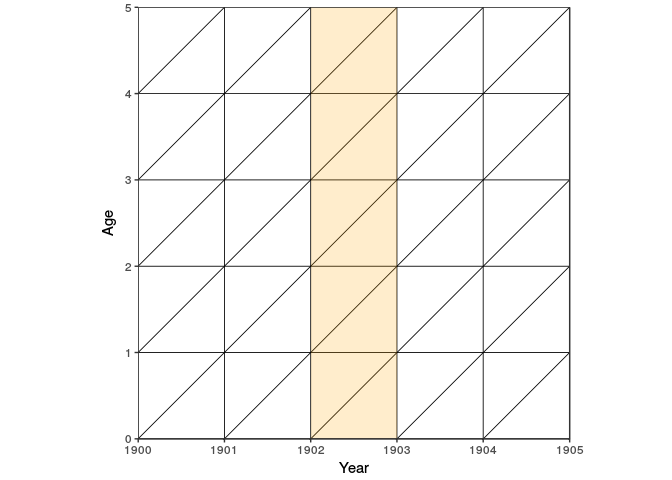
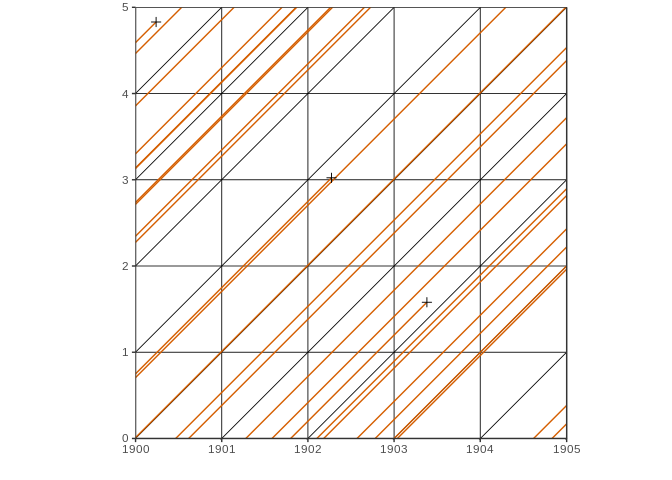
minor changes along with update of README.Rmd

Changed region(s): [[0.1562, 0.0, 0.875, 0.9688], [0.5, 0.9688, 0.5625, 1.0], [0.25, 0.8125, 0.2812, 0.8438]]

diff --git a/README.md b/README.md
@@ -89,52 +89,73 @@ lexis_cohort(lg = lexis, cohort = 1898)
 
 ![](README_files/figure-markdown_github/unnamed-chunk-7-1.png)
 
-The similar `lexis_survey()` can be used to sketch the progress of a survey or the like.
+The similar `lexis_polygon()` can be used to highlight arbitrary regions of the Lexis grid:
 
 ``` r
-#mylexis <- lexis.survey(lg = mylexis, from_date = "1901-06-01", to_date = "1902-12-31", from_age = 1, to_age = 3)
-#mylexis
+lexis <- lexis_grid(year_start = 1900, year_end = 1905, age_start = 0, age_end = 5)
+
+polygons <- data.frame(group = c(1, 1, 1, 2, 2, 2),
+                       x = c("1901-01-01", "1902-01-01", "1902-01-01", "1903-01-01", "1904-01-01", "1904-01-01"),
+                       y = c(1, 1, 2, 1, 1, 2))
+
+lexis_polygon(lg = lexis, x = polygons$x, y = polygons$y, group = polygons$group)
 ```
+
+![](README_files/figure-markdown_github/unnamed-chunk-8-1.png)
 
 ##### Add life lines to the Lexis Diagram
 
-A life line is a simple tool to represent an individual's life in a Lexis Diagram. The life line is a straight line and starts with the individual's birth at the respective point on the horizontal axis. The line ends with an individual's death (if observed).
+A life line is a simple tool to represent an individual's life in a Lexis Diagram.
 
-To draw an arbitrary life line into your Lexis Diagram you use `lexis.lifeline()` and provide at least an entry or birth date to the function. If death is not observed or the date of death unknown, `exit` is `NA` resulting in a never ending life line.
-
-``` r
-# Define a Lexis grid
-#mylexis <- lexis.grid2(year.start = 1990, year.end = 1995, age.start = 0, age.end = 5)
-# Add a life line for an individual born on 1991-09-23
-#lexis.lifeline(lg = mylexis, entry = "1991-09-23")
-```
-
-If death or any other date that can serve as an "exit" is observed, you can add the exit date:
+The behaviour of `lexis_lifeline()` can be controlled by supplying an entry and/or exit date along with the individuals birthday:
 
 ``` r
-#lexis.lifeline(lg = mylexis, entry = "1991-09-23", exit = "1994-06-11")
+lg <- lexis_grid(year_start = 1900, year_end = 1905, age_start = 0, age_end = 5)
+lexis_lifeline(lg = lg, birth = "1901-09-23")
 ```
+
+![](README_files/figure-markdown_github/unnamed-chunk-9-1.png)
+
+``` r
+lexis_lifeline(lg = lg, birth = "1901-09-23", entry = "1902-04-01")
+```
+
+![](README_files/figure-markdown_github/unnamed-chunk-9-2.png)
+
+``` r
+lexis_lifeline(lg = lg, birth = "1901-09-23", entry = "1902-04-01", exit = "1904-10-31")
+```
+
+![](README_files/figure-markdown_github/unnamed-chunk-9-3.png)
 
 You can also use entry and death dates from a `data.frame` which is useful when plotting life lines of several individuals or hole populations. **`LexisPlotR`** comes with a random dataset of entry and exit dates for 300 Individuals from 1895 to 1905. Some of the deaths (or exits) are not observed or unknown. Take a look at the `lifelines_sample` dataset:
 
 ``` r
-# data("lifelines_sample")
-# str(lifelines_sample)
-# head(lifelines_sample, 10)
+data("lifelines_sample")
+lifelines_sample <- lifelines_sample[1:30,]
+head(lifelines_sample, 10)
 ```
+
+    ##         entry       exit
+    ## 1  1898-04-25 1898-07-30
+    ## 2  1899-12-28       <NA>
+    ## 3  1903-01-15       <NA>
+    ## 4  1901-04-13       <NA>
+    ## 5  1895-05-30 1900-03-29
+    ## 6  1897-09-22       <NA>
+    ## 7  1896-02-16 1896-04-24
+    ## 8  1896-11-13 1902-10-30
+    ## 9  1904-10-31       <NA>
+    ## 10 1899-04-02 1902-04-11
 
 To add all this data to your Lexis Diagram, use `lexis.lifeline()` and provide the respective columns of `lifelines_sample` as arguments:
 
 ``` r
-# mylexis <- lexis.grid2(year.start = 1900, year.end = 1905, age.start = 0, age.end = 5)
-# lexis.lifeline(lg = mylexis, entry = lifelines_sample$entry, exit = lifelines_sample$exit)
+lg <- lexis_grid(year_start = 1900, year_end = 1905, age_start = 0, age_end = 5)
+lexis_lifeline(lg = lg, birth = lifelines_sample$entry, exit = lifelines_sample$exit, lineends = TRUE)
 ```
 
-As this is just random data the plot is not really interesting and confusing. But you can change the default plotting behaviour and add marks to the lineends, change the colour and width of the lines as well as the level of transparency of the lines:
-
-``` r
-#lexis.lifeline(lg = mylexis, entry = lifelines_sample$entry, exit = lifelines_sample$exit, lineends = TRUE, colour = "blue", lwd = 1.5, alpha = 0.3)
-```
+![](README_files/figure-markdown_github/unnamed-chunk-11-1.png)
 
 ##### Use data from the Human Mortality Database
 
